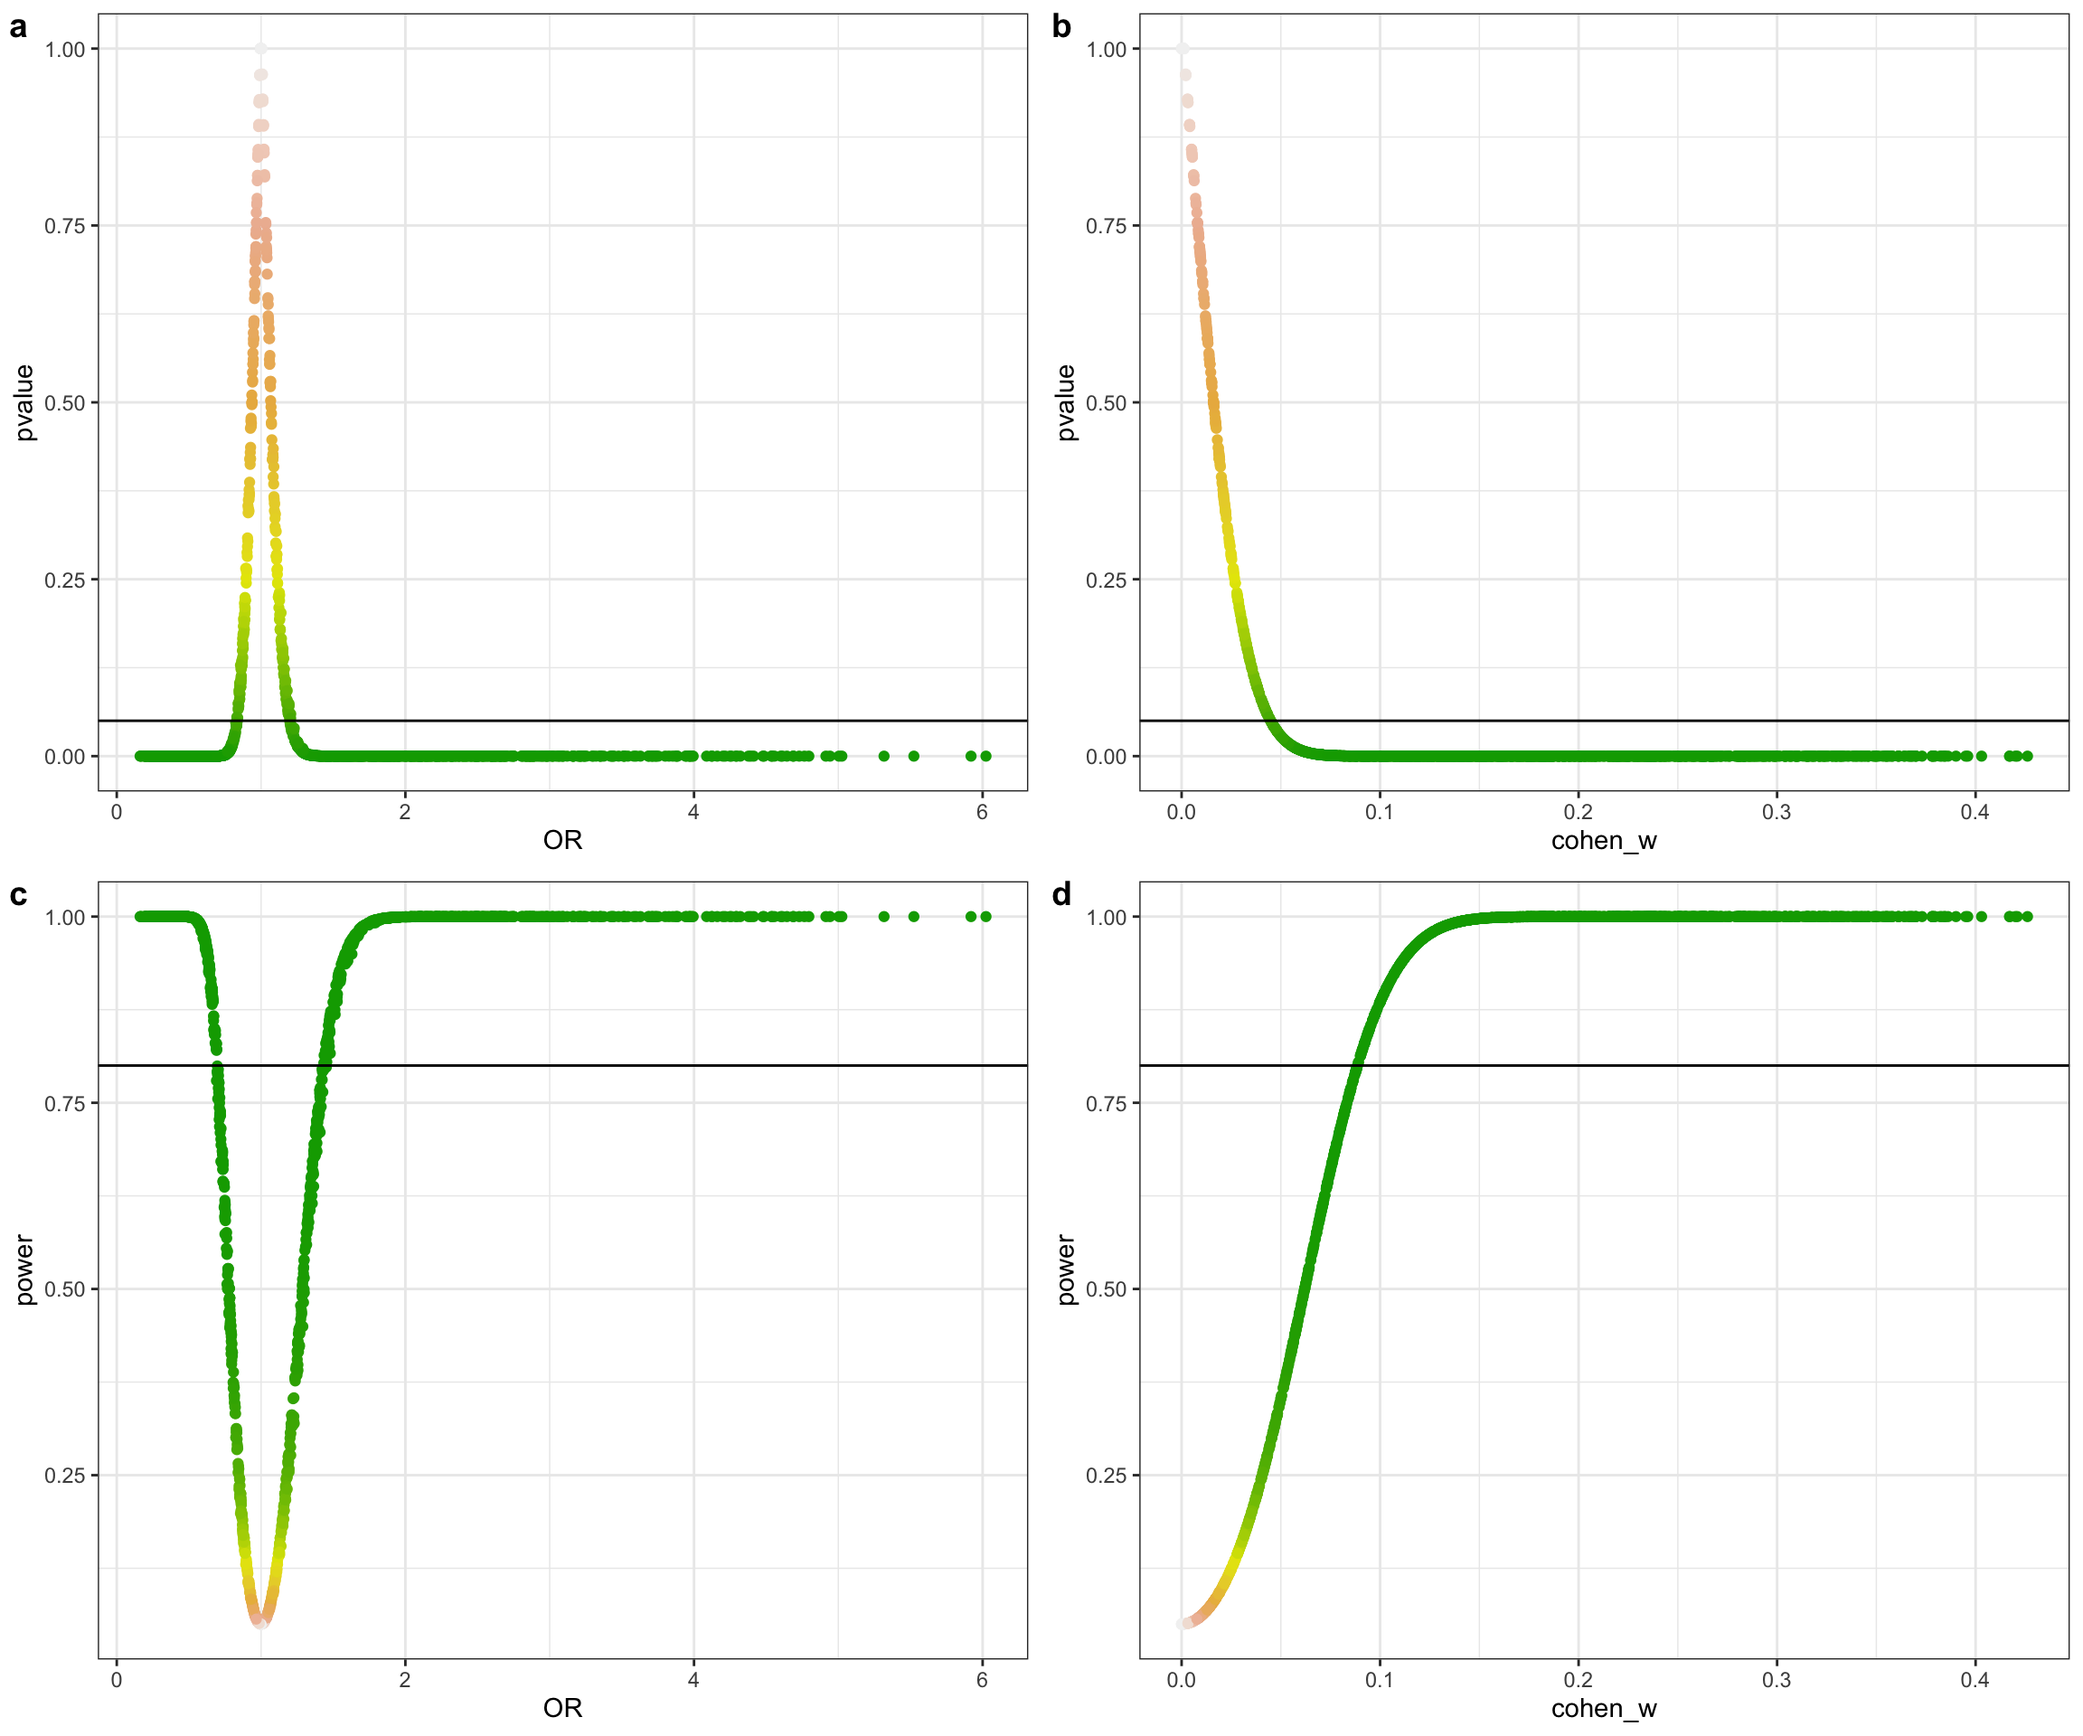
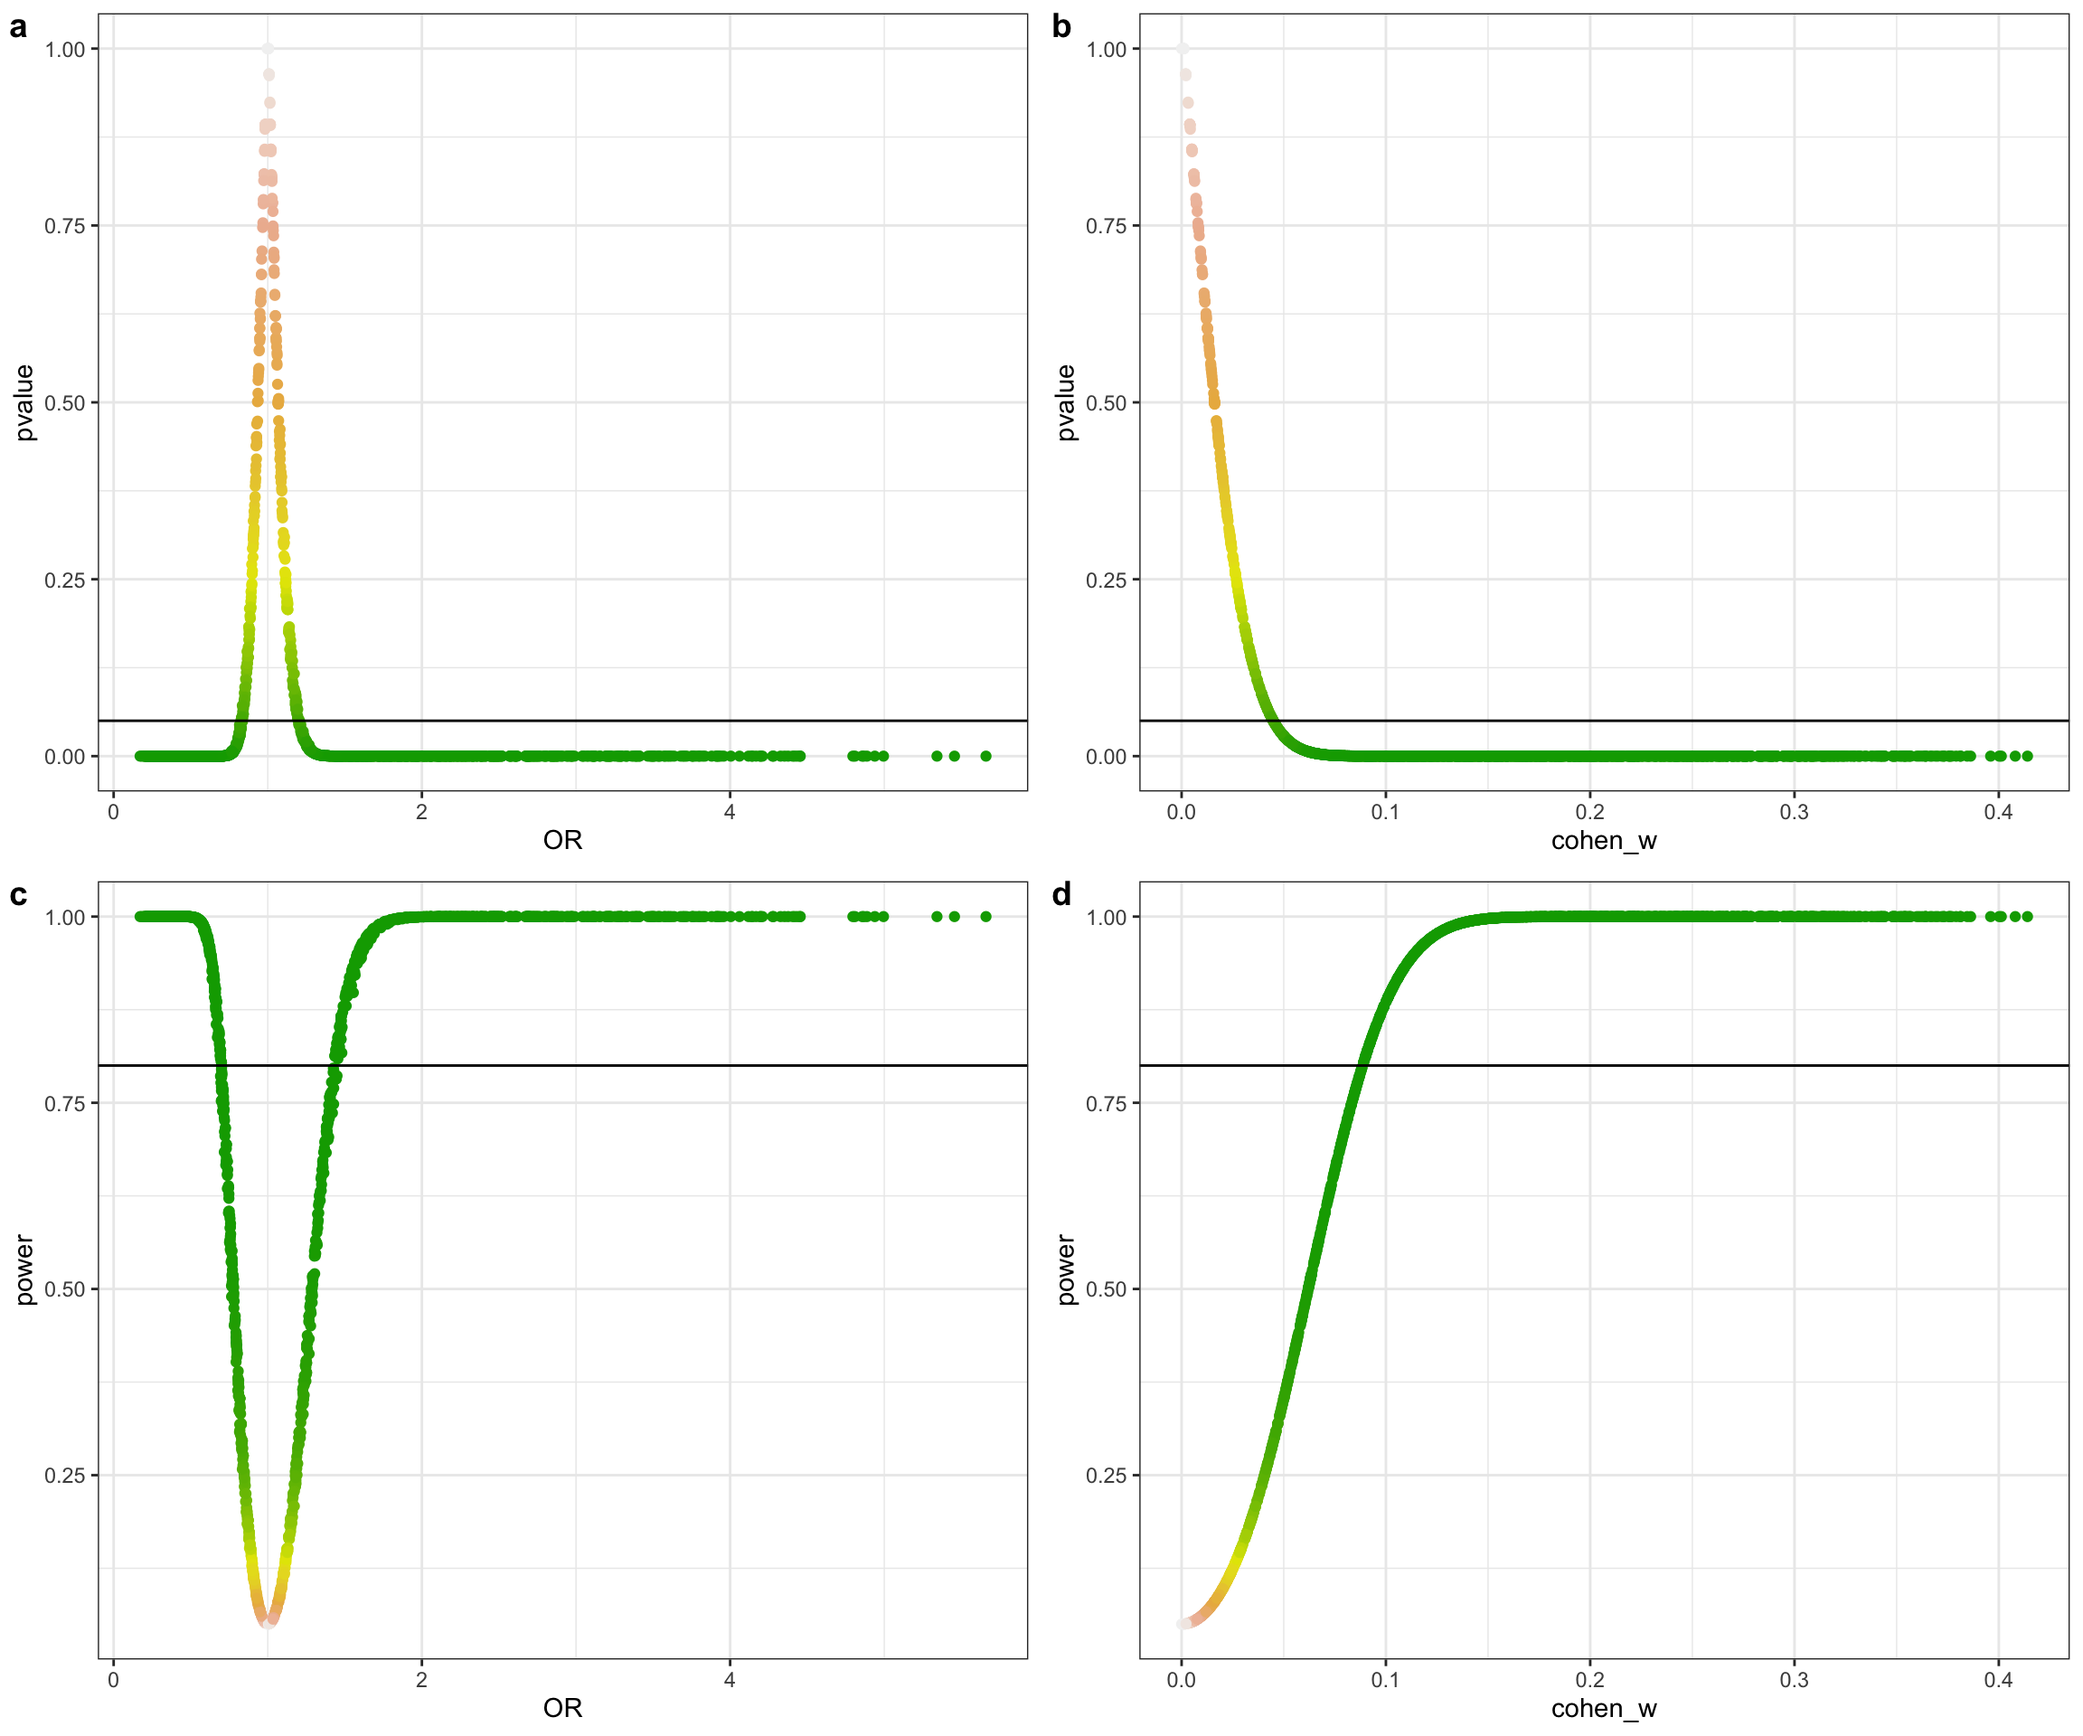
New blog post, post-hoc power

diff --git a/docs/2020/01/playing-with-post-hoc-power/index.html b/docs/2020/01/playing-with-post-hoc-power/index.html
@@ -495,40 +495,40 @@ power_against_pvalue_extractor &lt;- function(power_versus_pvalue, extracted=NUL
    [1] 1000
    
    $w
-   [1] 0.02300609
+   [1] 0.01600029
    
    $power
-   [1] 0.1124906
+   [1] 0.07980724
    
    $p_value
-   [1] 0.3250515
+   [1] 0.5023273
    
    $OR
-   [1] 1.096436
+   [1] 0.9379977
    
    $observed_counts
             
              A=exposed G=unexposed
-     case          523         477
-     control       500         500
+     case          495         505
+     control       511         489
    
    $expected_counts
             
              A=exposed G=unexposed
-     case        511.5       488.5
-     control     511.5       488.5
+     case          503         497
+     control       503         497
    
    $observed_proportions
             
              A=exposed G=unexposed
-     case       0.2615      0.2385
-     control    0.2500      0.2500
+     case       0.2475      0.2525
+     control    0.2555      0.2445
    
    $expected_proportions
             
              A=exposed G=unexposed
-     case      0.25575     0.24425
-     control   0.25575     0.24425</code></pre>
+     case       0.2515      0.2485
+     control    0.2515      0.2485</code></pre>
 <p>And now we can map this function to all the combinations of proportions we had stored in our data frame (using the wonderful <code>purrr</code> package):</p>
 <pre class="r"><code>mydata &lt;- mydata0 %&gt;%
    # calculate
@@ -576,13 +576,13 @@ OR
 0.3
 </td>
 <td style="text-align:center;">
-0.0500000
+0.1110964
 </td>
 <td style="text-align:center;">
-1.0000000
+0.3324798
 </td>
 <td style="text-align:center;">
-1.000000
+0.906063
 </td>
 </tr>
 <tr>
@@ -593,13 +593,13 @@ OR
 0.3
 </td>
 <td style="text-align:center;">
-0.1439164
+0.2503945
 </td>
 <td style="text-align:center;">
-0.2275967
+0.0768509
 </td>
 <td style="text-align:center;">
-1.128824
+1.189970
 </td>
 </tr>
 <tr>
@@ -610,13 +610,13 @@ OR
 0.3
 </td>
 <td style="text-align:center;">
-0.1547361
+0.1746965
 </td>
 <td style="text-align:center;">
-0.2025910
+0.1637885
 </td>
 <td style="text-align:center;">
-1.138560
+1.148441
 </td>
 </tr>
 </tbody>
@@ -650,6 +650,72 @@ OR
 </thead>
 <tbody>
 <tr>
+<td style="text-align:center;">
+0.40
+</td>
+<td style="text-align:center;">
+0.44
+</td>
+<td style="text-align:center;">
+0.2925585
+</td>
+<td style="text-align:center;">
+0.0508424
+</td>
+<td style="text-align:center;">
+0.8339090
+</td>
+</tr>
+<tr>
+<td style="text-align:center;">
+0.46
+</td>
+<td style="text-align:center;">
+0.50
+</td>
+<td style="text-align:center;">
+0.2962194
+</td>
+<td style="text-align:center;">
+0.0490027
+</td>
+<td style="text-align:center;">
+0.8350416
+</td>
+</tr>
+<tr>
+<td style="text-align:center;">
+0.48
+</td>
+<td style="text-align:center;">
+0.50
+</td>
+<td style="text-align:center;">
+0.2960685
+</td>
+<td style="text-align:center;">
+0.0490725
+</td>
+<td style="text-align:center;">
+0.8351346
+</td>
+</tr>
+<tr>
+<td style="text-align:center;">
+0.65
+</td>
+<td style="text-align:center;">
+0.69
+</td>
+<td style="text-align:center;">
+0.2930812
+</td>
+<td style="text-align:center;">
+0.0508489
+</td>
+<td style="text-align:center;">
+0.8263437
+</td>
 </tr>
 </tbody>
 </table>
@@ -1239,7 +1305,7 @@ $(document).ready(function() {
     
       <script>
         var disqus_config = function () {
-          this.page.url = 'https:\/\/aurora-mareviv.github.io\/talesofr\/2020\/01\/playing-with-post-hoc-power\/';
+          this.page.url = '\/2020\/01\/playing-with-post-hoc-power\/';
           
             this.page.identifier = '\/2020\/01\/playing-with-post-hoc-power\/'
           

diff --git a/content/post/2020-01-04-playing-with-post-hoc-power-with-r-why-you-shouldn-t-do-it.html b/content/post/2020-01-04-playing-with-post-hoc-power-with-r-why-you-shouldn-t-do-it.html
@@ -208,40 +208,40 @@ power_against_pvalue_extractor &lt;- function(power_versus_pvalue, extracted=NUL
    [1] 1000
    
    $w
-   [1] 0.02300609
+   [1] 0.01600029
    
    $power
-   [1] 0.1124906
+   [1] 0.07980724
    
    $p_value
-   [1] 0.3250515
+   [1] 0.5023273
    
    $OR
-   [1] 1.096436
+   [1] 0.9379977
    
    $observed_counts
             
              A=exposed G=unexposed
-     case          523         477
-     control       500         500
+     case          495         505
+     control       511         489
    
    $expected_counts
             
              A=exposed G=unexposed
-     case        511.5       488.5
-     control     511.5       488.5
+     case          503         497
+     control       503         497
    
    $observed_proportions
             
              A=exposed G=unexposed
-     case       0.2615      0.2385
-     control    0.2500      0.2500
+     case       0.2475      0.2525
+     control    0.2555      0.2445
    
    $expected_proportions
             
              A=exposed G=unexposed
-     case      0.25575     0.24425
-     control   0.25575     0.24425</code></pre>
+     case       0.2515      0.2485
+     control    0.2515      0.2485</code></pre>
 <p>And now we can map this function to all the combinations of proportions we had stored in our data frame (using the wonderful <code>purrr</code> package):</p>
 <pre class="r"><code>mydata &lt;- mydata0 %&gt;%
    # calculate
@@ -289,13 +289,13 @@ OR
 0.3
 </td>
 <td style="text-align:center;">
-0.0500000
+0.1110964
 </td>
 <td style="text-align:center;">
-1.0000000
+0.3324798
 </td>
 <td style="text-align:center;">
-1.000000
+0.906063
 </td>
 </tr>
 <tr>
@@ -306,13 +306,13 @@ OR
 0.3
 </td>
 <td style="text-align:center;">
-0.1439164
+0.2503945
 </td>
 <td style="text-align:center;">
-0.2275967
+0.0768509
 </td>
 <td style="text-align:center;">
-1.128824
+1.189970
 </td>
 </tr>
 <tr>
@@ -323,13 +323,13 @@ OR
 0.3
 </td>
 <td style="text-align:center;">
-0.1547361
+0.1746965
 </td>
 <td style="text-align:center;">
-0.2025910
+0.1637885
 </td>
 <td style="text-align:center;">
-1.138560
+1.148441
 </td>
 </tr>
 </tbody>
@@ -363,6 +363,72 @@ OR
 </thead>
 <tbody>
 <tr>
+<td style="text-align:center;">
+0.40
+</td>
+<td style="text-align:center;">
+0.44
+</td>
+<td style="text-align:center;">
+0.2925585
+</td>
+<td style="text-align:center;">
+0.0508424
+</td>
+<td style="text-align:center;">
+0.8339090
+</td>
+</tr>
+<tr>
+<td style="text-align:center;">
+0.46
+</td>
+<td style="text-align:center;">
+0.50
+</td>
+<td style="text-align:center;">
+0.2962194
+</td>
+<td style="text-align:center;">
+0.0490027
+</td>
+<td style="text-align:center;">
+0.8350416
+</td>
+</tr>
+<tr>
+<td style="text-align:center;">
+0.48
+</td>
+<td style="text-align:center;">
+0.50
+</td>
+<td style="text-align:center;">
+0.2960685
+</td>
+<td style="text-align:center;">
+0.0490725
+</td>
+<td style="text-align:center;">
+0.8351346
+</td>
+</tr>
+<tr>
+<td style="text-align:center;">
+0.65
+</td>
+<td style="text-align:center;">
+0.69
+</td>
+<td style="text-align:center;">
+0.2930812
+</td>
+<td style="text-align:center;">
+0.0508489
+</td>
+<td style="text-align:center;">
+0.8263437
+</td>
 </tr>
 </tbody>
 </table>
